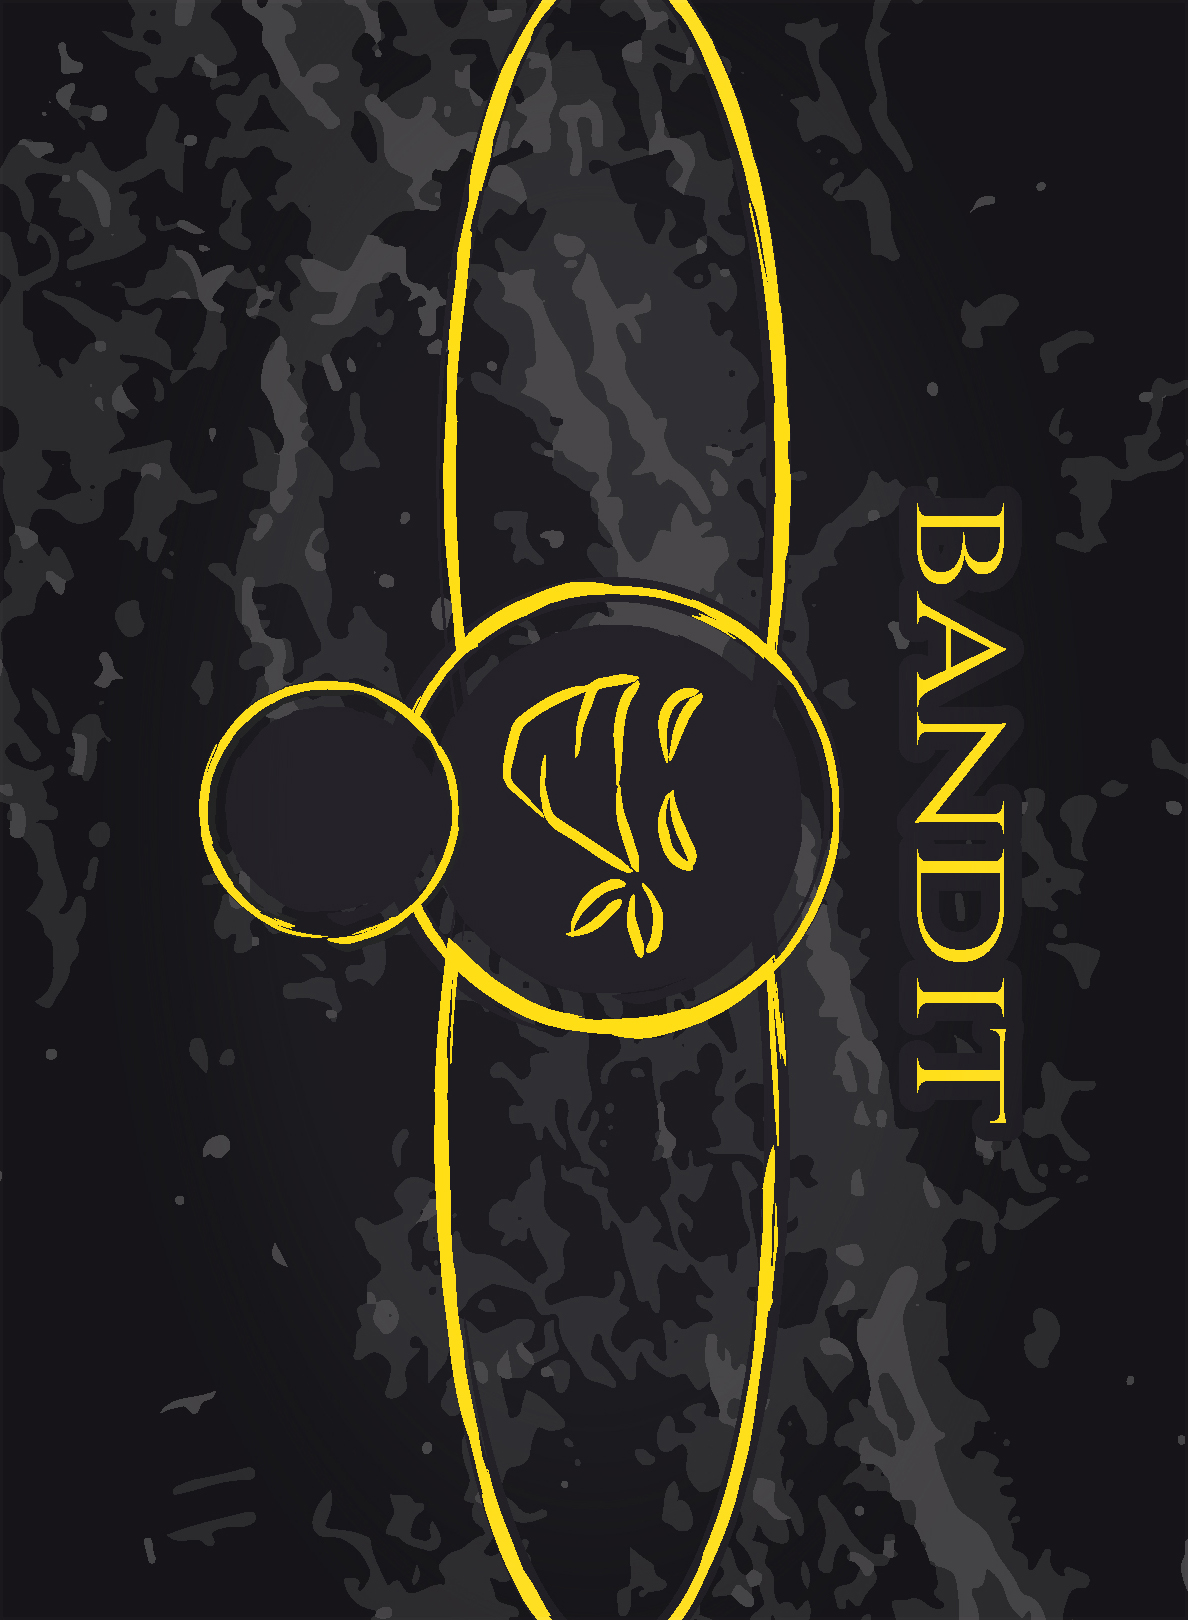
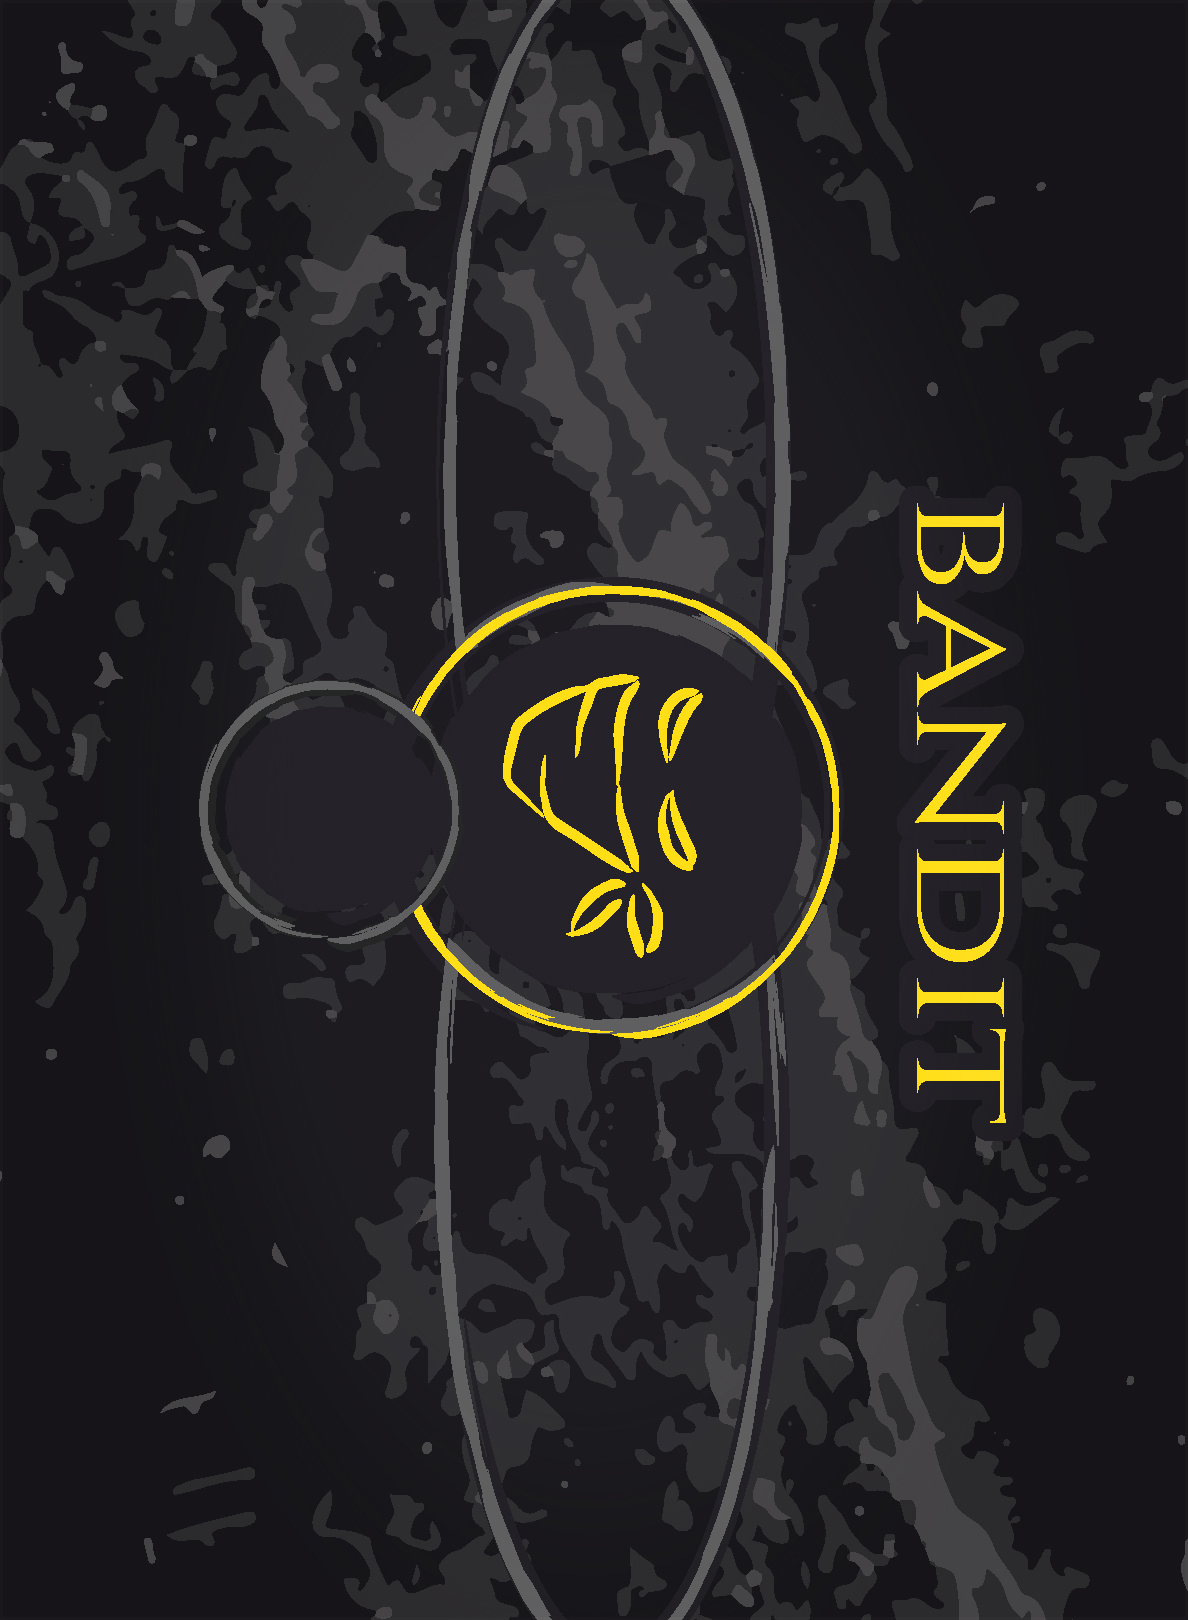
new backs, back hp tracker spacing improvement

diff --git a/src/scss/cards.scss b/src/scss/cards.scss
@@ -131,7 +131,7 @@ svg {
   margin: 0;
   padding: 0;
   position: absolute;
-  bottom: 0.25in;
+  bottom: 0.21in;
   left: $border;
   z-index: 99;
   font-size: $base;
@@ -373,6 +373,10 @@ svg {
         padding-right: 24pt;
       }
     }
+
+    footer {
+      text-align: center;
+    }
   }
 
   &.Helper {
@@ -509,8 +513,9 @@ svg {
     }
   }
 
-  .hp-tracker-vertical-right {
-    /*top: 0.04in;*/
+  .hp-tracker-horizontal {
+    /*padding: 0 10pt 0.03in 10pt;*/
+    padding-right: 14pt;
   }
 
   .hp-tracker-vertical, .hp-tracker-horizontal {
@@ -621,7 +626,10 @@ svg {
 .card.front.Loot { &:before {
   background-image: url(../img/fronts/loot.jpg) !important;
 }}
-.card.back.Loot.tier1 { &:before {
+.card.back.Loot { &:before {
+  background-image: url(../img/backs/loot.jpg) !important;
+}}
+/*.card.back.Loot.tier1 { &:before {
   background-image: url(../img/backs/loot-1.jpg) !important;
 }}
 .card.back.Loot.tier2 { &:before {
@@ -629,12 +637,15 @@ svg {
 }}
 .card.back.Loot.tier3 { &:before {
   background-image: url(../img/backs/loot-3.jpg) !important;
-}}
+}}*/
 
 .card.front.Encounter { &:before {
   background-image: url(../img/fronts/encounter.jpg) !important;
 }}
-.card.back.Beast.tier1 { &:before {
+.card.back.Beast { &:before {
+  background-image: url(../img/backs/beast.jpg) !important;
+}}
+/*.card.back.Beast.tier1 { &:before {
   background-image: url(../img/backs/beast-1.jpg) !important;
 }}
 .card.back.Beast.tier2 { &:before {
@@ -642,7 +653,7 @@ svg {
 }}
 .card.back.Beast.tier3 { &:before {
   background-image: url(../img/backs/beast-3.jpg) !important;
-}}
+}}*/
 .card.back.Bandit { &:before {
   background-image: url(../img/backs/bandit.jpg) !important;
 }}
@@ -655,7 +666,10 @@ svg {
 .card.back.Bandit.tier3 { &:before {
   background-image: url(../img/backs/bandit-3.jpg) !important;
 }}*/
-.card.back.Fae.tier1 { &:before {
+.card.back.Fae { &:before {
+  background-image: url(../img/backs/fae.jpg) !important;
+}}
+/*.card.back.Fae.tier1 { &:before {
   background-image: url(../img/backs/fae-1.jpg) !important;
 }}
 .card.back.Fae.tier2 { &:before {
@@ -663,8 +677,11 @@ svg {
 }}
 .card.back.Fae.tier3 { &:before {
   background-image: url(../img/backs/fae-3.jpg) !important;
+}}*/
+.card.back.Undead { &:before {
+  background-image: url(../img/backs/undead.jpg) !important;
 }}
-.card.back.Undead.tier1 { &:before {
+/*.card.back.Undead.tier1 { &:before {
   background-image: url(../img/backs/undead-1.jpg) !important;
 }}
 .card.back.Undead.tier2 { &:before {
@@ -672,4 +689,4 @@ svg {
 }}
 .card.back.Undead.tier3 { &:before {
   background-image: url(../img/backs/undead-3.jpg) !important;
-}}
+}}*/
